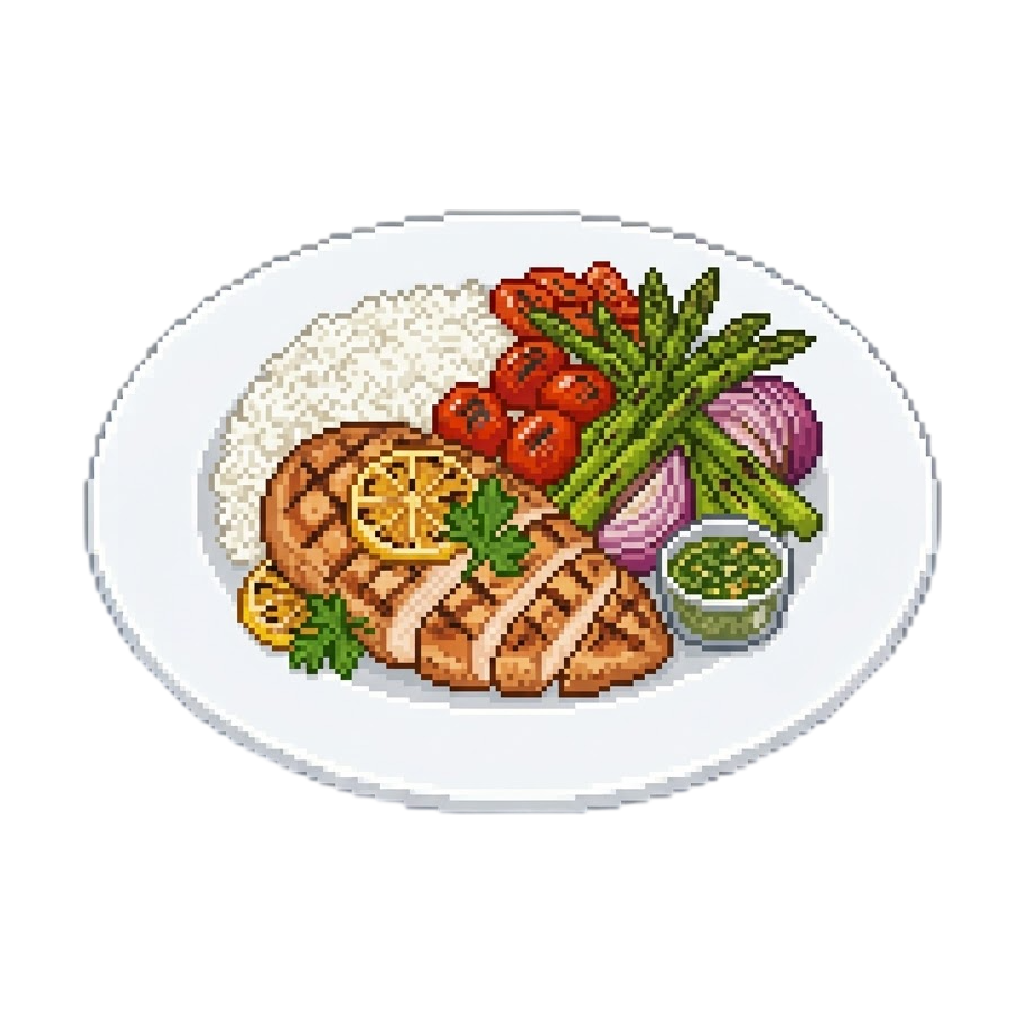
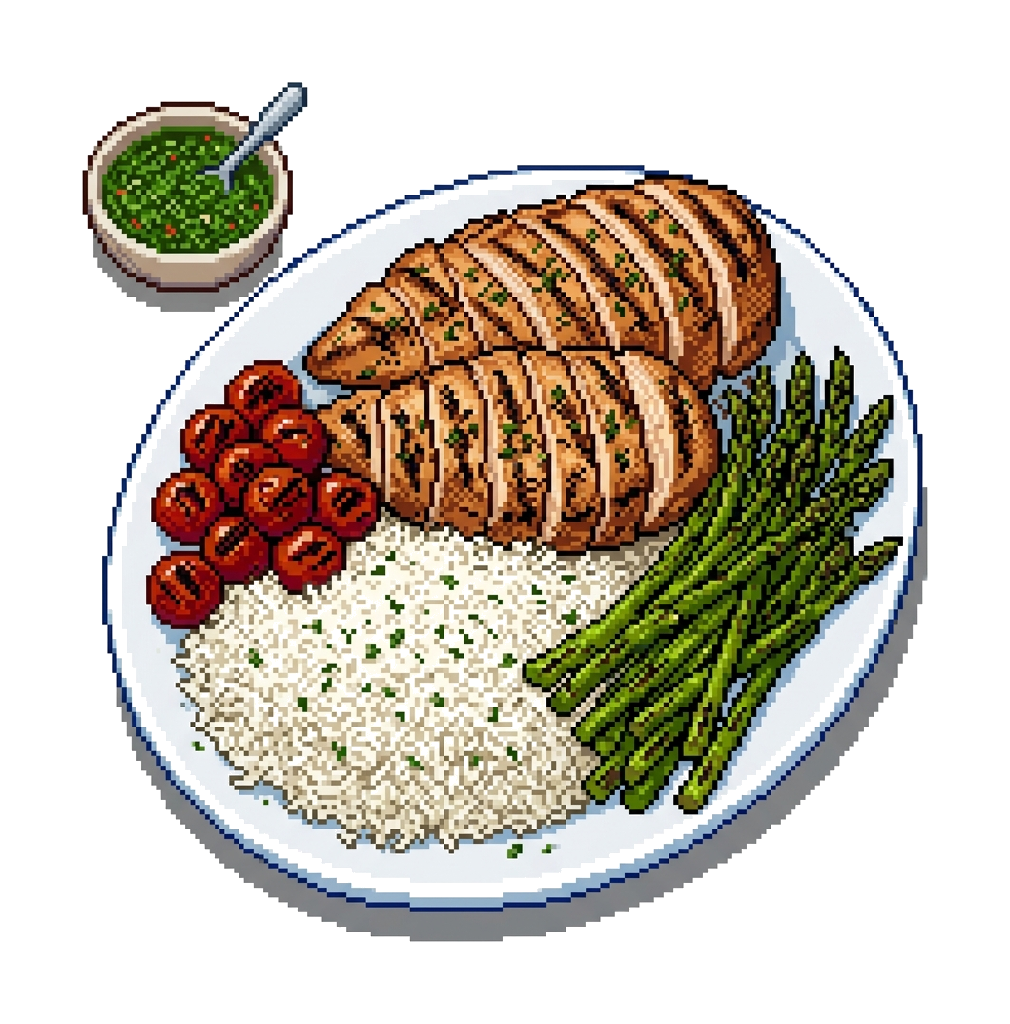
fix: integrate Pixelify Sans for true lowercase pixel brand, align button heights and micro-cards, and unify 16-bit isometric art

diff --git a/src/app/page.tsx b/src/app/page.tsx
@@ -98,7 +98,7 @@ export default function Home() {
                 <Link href={isLoggedIn ? "/dashboard" : "/auth"} className="w-full sm:w-auto">
                   <button
                     type="button"
-                    className="w-full sm:w-auto font-cabinet font-bold text-base sm:text-lg px-8 py-4 rounded-xl border-4 bg-[#1A3629] text-[#FFFDF9] border-[#1A3629] shadow-[5px_5px_0px_#3A6B52] hover:-translate-y-1 hover:shadow-[7px_7px_0px_#3A6B52] active:translate-x-[5px] active:translate-y-[5px] active:shadow-none transition-all cursor-pointer inline-flex items-center justify-center"
+                    className="w-full sm:w-auto font-cabinet font-bold text-base px-8 h-[54px] rounded-xl border-3 bg-[#1A3629] text-[#FFFDF9] border-[#1A3629] shadow-[4px_4px_0px_#3A6B52] hover:-translate-y-0.5 hover:shadow-[6px_6px_0px_#3A6B52] active:translate-x-[4px] active:translate-y-[4px] active:shadow-none transition-all cursor-pointer inline-flex items-center justify-center whitespace-nowrap"
                   >
                     {isLoggedIn ? "Visit Your Dashboard" : "Start Calibration — Free"}
                   </button>
@@ -107,7 +107,7 @@ export default function Home() {
                 <Link href="/protocols" className="w-full sm:w-auto">
                   <button
                     type="button"
-                    className="w-full sm:w-auto font-cabinet font-bold text-base sm:text-lg px-8 py-4 rounded-xl border-4 bg-[#FFFDF9] text-[#1A3629] border-[#1A3629] shadow-[5px_5px_0px_#1A3629] hover:-translate-y-1 hover:shadow-[7px_7px_0px_#1A3629] active:translate-x-[5px] active:translate-y-[5px] active:shadow-none transition-all cursor-pointer inline-flex items-center justify-center"
+                    className="w-full sm:w-auto font-cabinet font-bold text-base px-8 h-[54px] rounded-xl border-3 bg-[#FFFDF9] text-[#1A3629] border-[#1A3629] shadow-[4px_4px_0px_#1A3629] hover:-translate-y-0.5 hover:shadow-[6px_6px_0px_#1A3629] active:translate-x-[4px] active:translate-y-[4px] active:shadow-none transition-all cursor-pointer inline-flex items-center justify-center whitespace-nowrap"
                   >
                     Browse Blueprints
                   </button>
@@ -118,7 +118,7 @@ export default function Home() {
               <div className="mt-8 sm:mt-10 grid grid-cols-1 sm:grid-cols-3 gap-3 sm:gap-3.5 pt-6 border-t-2 border-[#1A3629]/15 w-full">
                 
                 {/* Micro-Card 1: Streak Heatmap Preview */}
-                <div className="border-2 border-[#1A3629] bg-[#FFFDF9] rounded-xl p-4 sm:p-5 flex flex-col justify-between h-full min-h-[105px] shadow-[3px_3px_0px_#1A3629] transition-all">
+                <div className="border-2 border-[#1A3629] bg-[#FFFDF9] rounded-xl p-4 flex flex-col justify-between h-[116px] shadow-[3px_3px_0px_#1A3629] transition-all">
                   <div className="flex items-center gap-1.5 mb-2">
                     {[1, 0.65, 0.85, 1, 0.5, 1, 1].map((opacity, i) => (
                       <span 
@@ -139,7 +139,7 @@ export default function Home() {
                 </div>
 
                 {/* Micro-Card 2: Macro Fueling Preview */}
-                <div className="border-2 border-[#1A3629] bg-[#FFFDF9] rounded-xl p-4 sm:p-5 flex flex-col justify-between h-full min-h-[105px] overflow-hidden shadow-[3px_3px_0px_#1A3629] transition-all">
+                <div className="border-2 border-[#1A3629] bg-[#FFFDF9] rounded-xl p-4 flex flex-col justify-between h-[116px] overflow-hidden shadow-[3px_3px_0px_#1A3629] transition-all">
                   <div 
                     key={currentDish.id}
                     className="font-mono font-bold text-sm tabular-nums tracking-tight mb-1 whitespace-nowrap animate-stat-flip text-[#1A3629]"
@@ -157,9 +157,9 @@ export default function Home() {
                 </div>
 
                 {/* Micro-Card 3: Discovery Rating */}
-                <div className="border-2 border-[#1A3629] bg-[#FFFDF9] rounded-xl p-4 sm:p-5 flex flex-col justify-between h-full min-h-[105px] shadow-[3px_3px_0px_#1A3629] transition-all">
-                  <div className="font-mono font-bold text-xs uppercase tracking-wider text-[#1A3629]">
-                    <span className="text-sm font-black tabular-nums">{currentDish.focus}</span> FOCUS RATING
+                <div className="border-2 border-[#1A3629] bg-[#FFFDF9] rounded-xl p-4 flex flex-col justify-between h-[116px] shadow-[3px_3px_0px_#1A3629] transition-all">
+                  <div className="font-mono font-bold text-xs tracking-tight text-[#1A3629] whitespace-nowrap">
+                    <span className="text-sm font-black tabular-nums">{currentDish.focus}</span> FOCUS LINK
                   </div>
                   <div>
                     <div className="font-cabinet font-bold text-xs uppercase tracking-wide text-[#1A3629]">

diff --git a/src/components/landing/HeaderNav.tsx b/src/components/landing/HeaderNav.tsx
@@ -41,10 +41,10 @@ export function HeaderNav({ onOpenAuth }: HeaderNavProps) {
     <header className="fixed top-0 left-0 right-0 z-50 h-20 flex items-center justify-center px-6 lg:px-12 pointer-events-none transition-all duration-300">
       <div className="w-full max-w-7xl relative flex items-center justify-between pointer-events-auto">
         
-        {/* Left: Lowercase Pixel Text Logo (Unboxed, Big, Matching Width) */}
+        {/* Left: Authentic Lowercase Pixel Brand Text (Symmetrically aligned) */}
         <Link 
           href="/" 
-          className="font-pixel text-2xl sm:text-3xl font-bold lowercase tracking-wider text-[#1A3629] select-none hover:opacity-80 transition-opacity z-10" 
+          className="font-pixel text-3xl font-bold lowercase tracking-wider text-[#1A3629] select-none hover:opacity-80 transition-opacity z-10 flex items-center h-10" 
           aria-label="cyath home"
         >
           cyath
@@ -52,7 +52,7 @@ export function HeaderNav({ onOpenAuth }: HeaderNavProps) {
 
         {/* Center: Tactile Pill Nav */}
         <nav 
-          className={`hidden md:flex absolute left-1/2 -translate-x-1/2 items-center gap-5 transition-all duration-300 bg-[#FFFDF9] border-2 border-[#1A3629] rounded-full px-6 py-2 ${
+          className={`hidden md:flex absolute left-1/2 -translate-x-1/2 items-center gap-5 transition-all duration-300 bg-[#FFFDF9] border-2 border-[#1A3629] rounded-full px-6 h-10 ${
             isScrolled 
               ? "shadow-[4px_4px_0px_#1A3629]" 
               : "shadow-[3px_3px_0px_#1A3629]"
@@ -82,14 +82,14 @@ export function HeaderNav({ onOpenAuth }: HeaderNavProps) {
           {pathname.startsWith('/dashboard') ? (
             <Link
               href="/profile"
-              className="border-2 border-[#1A3629] bg-[#FFFDF9] text-[#1A3629] px-5 sm:px-6 py-2 rounded-full font-cabinet font-bold text-xs shadow-[3px_3px_0px_#1A3629] hover:shadow-[4px_4px_0px_#1A3629] hover:-translate-y-0.5 active:translate-y-[3px] active:translate-x-[3px] active:shadow-none transition-all flex items-center justify-center cursor-pointer min-w-[110px] sm:min-w-[124px]"
+              className="border-2 border-[#1A3629] bg-[#FFFDF9] text-[#1A3629] px-5 rounded-full font-cabinet font-bold text-xs shadow-[3px_3px_0px_#1A3629] hover:shadow-[4px_4px_0px_#1A3629] hover:-translate-y-0.5 active:translate-y-[2px] active:translate-x-[2px] active:shadow-none transition-all flex items-center justify-center cursor-pointer h-10 min-w-[116px]"
             >
               <span>Profile</span>
             </Link>
           ) : (
             <Link
               href={mounted && userSession ? "/dashboard" : "/login"}
-              className="border-2 border-[#1A3629] bg-[#FFFDF9] text-[#1A3629] px-5 sm:px-6 py-2 rounded-full font-cabinet font-bold text-xs shadow-[3px_3px_0px_#1A3629] hover:shadow-[4px_4px_0px_#1A3629] hover:-translate-y-0.5 active:translate-y-[3px] active:translate-x-[3px] active:shadow-none transition-all flex items-center justify-center gap-2 cursor-pointer min-w-[110px] sm:min-w-[124px]"
+              className="border-2 border-[#1A3629] bg-[#FFFDF9] text-[#1A3629] px-5 rounded-full font-cabinet font-bold text-xs shadow-[3px_3px_0px_#1A3629] hover:shadow-[4px_4px_0px_#1A3629] hover:-translate-y-0.5 active:translate-y-[2px] active:translate-x-[2px] active:shadow-none transition-all flex items-center justify-center gap-2 cursor-pointer h-10 min-w-[116px]"
             >
               <span className="w-2 h-2 rounded-full bg-[#1A3629]" />
               <span>Dashboard</span>

diff --git a/src/app/layout.tsx b/src/app/layout.tsx
@@ -1,5 +1,5 @@
 import type { Metadata } from "next";
-import { Inter, Playfair_Display, JetBrains_Mono, Fraunces, Silkscreen } from "next/font/google";
+import { Inter, Playfair_Display, JetBrains_Mono, Fraunces, Pixelify_Sans } from "next/font/google";
 import { AuthProvider } from "@/components/auth/AuthProvider";
 import "./globals.css";
 
@@ -29,9 +29,9 @@ const jetbrainsMono = JetBrains_Mono({
   display: "swap",
 });
 
-const silkscreen = Silkscreen({
+const pixelFont = Pixelify_Sans({
   subsets: ["latin"],
-  weight: ["400", "700"],
+  weight: ["400", "600", "700"],
   variable: "--font-pixel",
   display: "swap",
 });
@@ -47,7 +47,7 @@ export default function RootLayout({
   children: React.ReactNode;
 }>) {
   return (
-    <html lang="en" className={`${inter.variable} ${playfair.variable} ${fraunces.variable} ${jetbrainsMono.variable} ${silkscreen.variable} h-full antialiased`}>
+    <html lang="en" className={`${inter.variable} ${playfair.variable} ${fraunces.variable} ${jetbrainsMono.variable} ${pixelFont.variable} h-full antialiased`}>
       <head>
         <link
           href="https://api.fontshare.com/v2/css?f[]=cabinet-grotesk@100,200,300,400,500,700,800,900&display=swap"

diff --git a/src/app/globals.css b/src/app/globals.css
@@ -22,7 +22,7 @@
   --font-cabinet: "Cabinet Grotesk", -apple-system, BlinkMacSystemFont, sans-serif;
   --font-sans: var(--font-inter), "Inter", -apple-system, BlinkMacSystemFont, sans-serif;
   --font-mono: var(--font-mono), "JetBrains Mono", ui-monospace, monospace;
-  --font-pixel: var(--font-pixel), "Silkscreen", monospace;
+  --font-pixel: var(--font-pixel), "Pixelify Sans", monospace;
 
   /* Keyframe Animations */
   --animate-pixel-float: pixelFloatWave 4s ease-in-out infinite;
